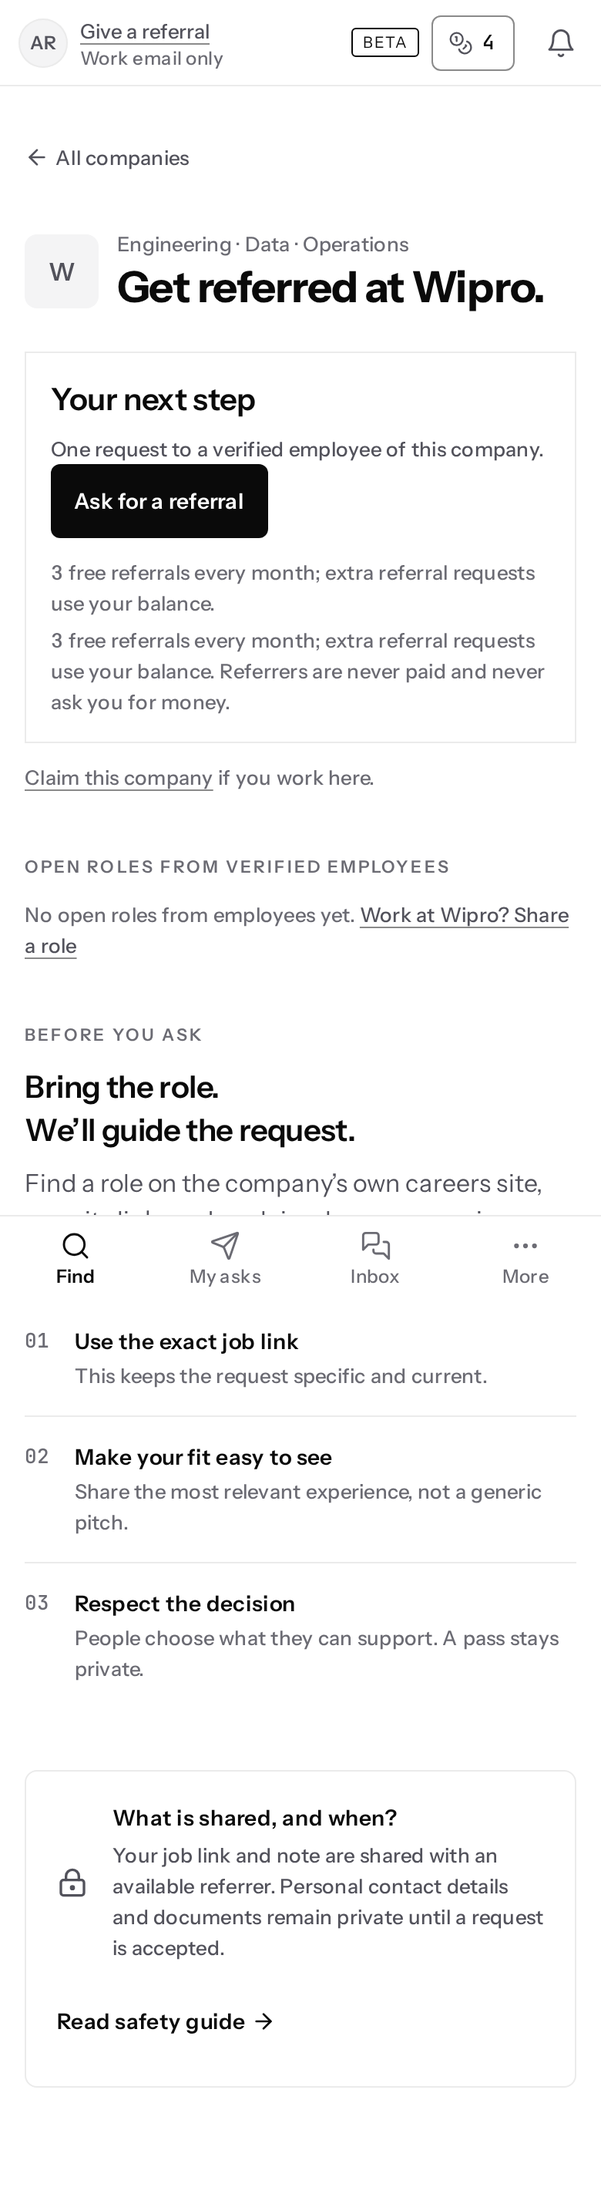
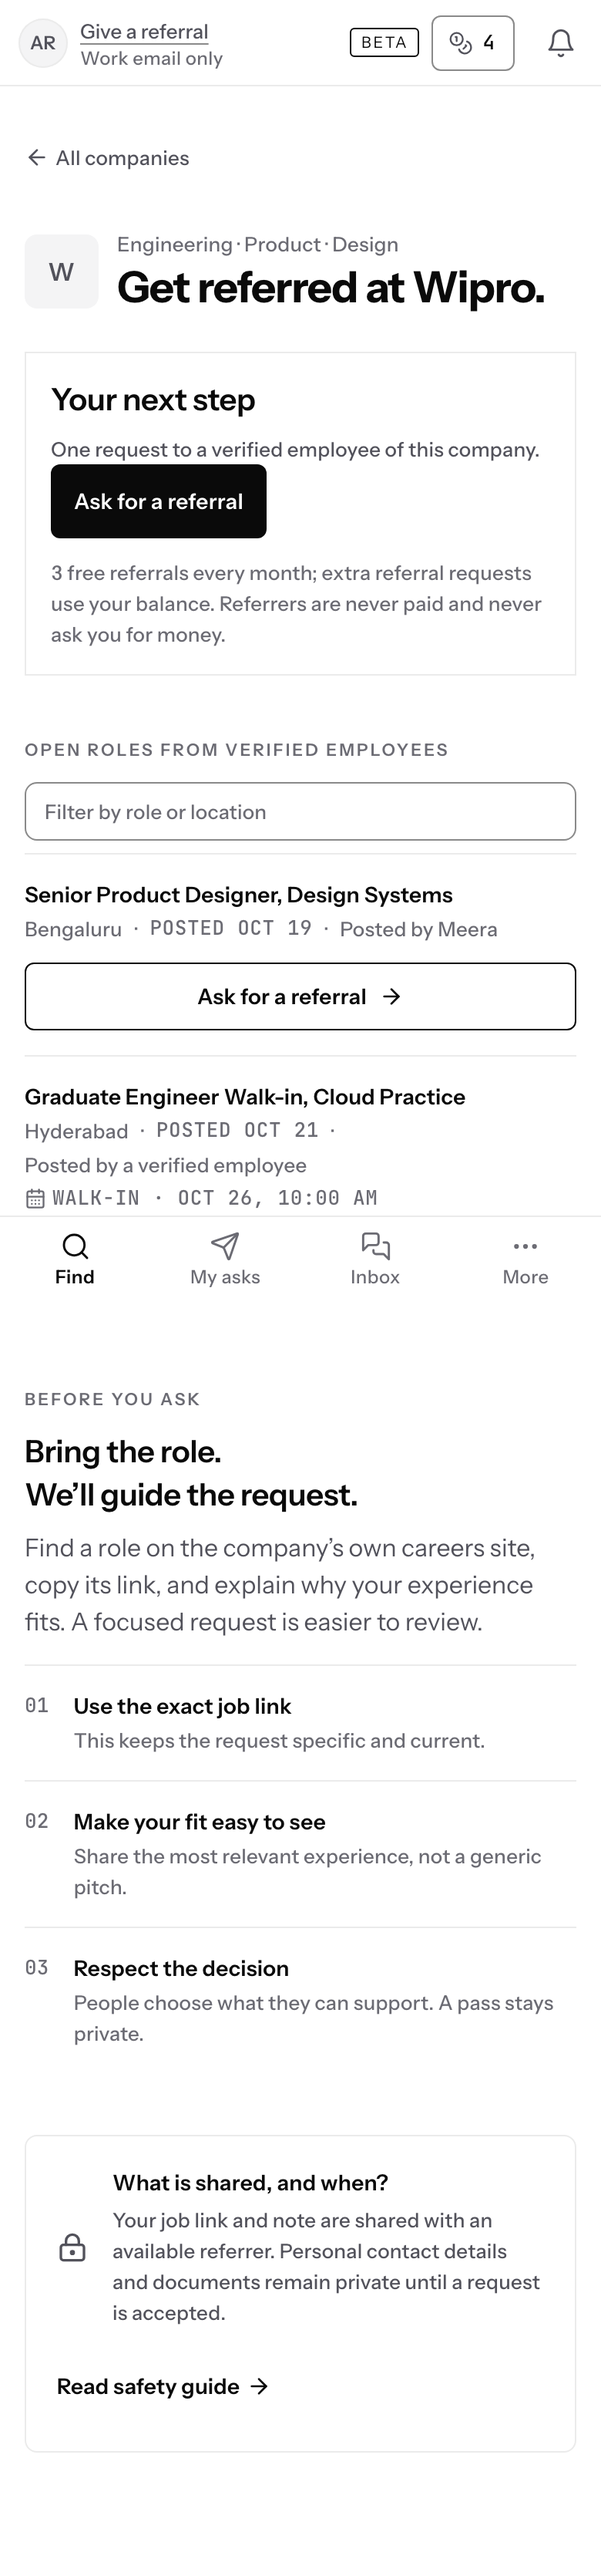
D-048-p3-live-review-find: fix the re-review findings N1-N6 red-first
N1 the door's Claim link now follows VITE_COMPANY_CLAIM, the switch the other
two claim entry points already use, so it is no longer a dead link. N2 the
goal line wraps instead of truncating: at 390 with "Northwind Analytics" it
measured 461/298 before and 298/298 after in a real browser. N3 an unknown slug
renders GoalEmptyState with one All companies action inside the goal shell,
not the kit 404's second <main>, wordmark and blue pill. N4 the how-it-goes
copy no longer says "verified employers" and no longer uses "your asks". N5
every changed state is recaptured at 1280 and 390 from this tree, plus a
long-name fixture. N6 the black commit opens the one company the query names
even while a chip hides its row, and is disabled with an honest reason when it
would otherwise do nothing.

diff --git a/client/src/pages/explore.test.tsx b/client/src/pages/explore.test.tsx
@@ -102,7 +102,7 @@ beforeEach(() => {
   stubMatchMedia();
   go.mockReset();
 });
-afterEach(() => { cleanup(); vi.unstubAllGlobals(); });
+afterEach(() => { cleanup(); vi.unstubAllGlobals(); vi.unstubAllEnvs(); });
 
 const companyPaths = (fetchMock: ReturnType<typeof vi.fn>) => paths(fetchMock).filter(path => path.startsWith("/api/companies"));
 
@@ -254,8 +254,9 @@ describe("Explore company door (goal, W2)", () => {
     routeState.slug = "no-such-company";
     stubDirectory();
     renderWithQuery(<ExploreCompany />);
-    expect(await screen.findByRole("heading", { name: "This door doesn't lead anywhere." })).toBeTruthy();
-    expect(screen.getByRole("link", { name: "Explore companies" }).getAttribute("href")).toBe("/explore");
+    expect(await screen.findByText("This door doesn’t lead anywhere.")).toBeTruthy();
+    expect(screen.getByTestId("goal-empty-state")).toBeTruthy();
+    expect(screen.queryByRole("link", { name: "Explore companies" })).toBeNull(); // no kit action inside the goal shell
     expect(screen.queryByRole("button", { name: /Ask for a referral/ })).toBeNull();
   });
 
@@ -542,6 +543,45 @@ describe("Goal redesign of the find surfaces", () => {
     expect(container).toBeTruthy();
   });
 
+  // N4 (PR #1161 re-review): new public copy said "verified employers" (SkipWait
+  // verifies employees, never employers) and used the noun "asks" outside the
+  // menu label D-180 permits.
+  it("the how-it-goes copy names no employer verification and no stray 'asks' noun", async () => {
+    stubDirectory();
+    const { container } = renderWithQuery(<Explore />);
+    await screen.findByTestId("goal-directory-summary");
+    const how = container.querySelector('section[aria-label="How it goes"]') as HTMLElement;
+    expect(how.textContent).not.toMatch(/verified employers/i);
+    expect(how.textContent).toContain("Search companies where verified employees can review requests.");
+    expect(how.textContent).toContain("You see their answer in My asks.");
+    expect(how.textContent).not.toMatch(/your asks/i);
+  });
+
+  // N6 (PR #1161 re-review): with the query matching a company the active chip
+  // hides, the list is not mounted, so focusing it did nothing and the enabled
+  // commit was a no-op. The query alone decides; the commit opens that company.
+  it("the black commit opens the one company the query names even when a chip hides it", async () => {
+    stubDirectory();
+    const { container } = renderWithQuery(<Explore />);
+    await screen.findByTestId("goal-directory-summary");
+    fireEvent.click(screen.getByRole("button", { name: "Design" })); // Wipro has no Design function
+    fireEvent.change(screen.getByLabelText("Search companies"), { target: { value: "Wipro" } });
+    fireEvent.click(within(screen.getByRole("region", { name: GOAL_NEXT_STEP_LABEL })).getByRole("button", { name: "Find your company" }));
+    expect(go).toHaveBeenCalledWith("/explore?company=wipro", { replace: true });
+    expect(container).toBeTruthy();
+  });
+
+  it("the black commit is disabled with a reason when a chip hides every company the query names", async () => {
+    stubDirectory();
+    renderWithQuery(<Explore />);
+    await screen.findByTestId("goal-directory-summary");
+    fireEvent.click(screen.getByRole("button", { name: "Design" })); // Wipro and TCS have no Design function
+    fireEvent.change(screen.getByLabelText("Search companies"), { target: { value: "technology services" } });
+    const step = screen.getByRole("region", { name: GOAL_NEXT_STEP_LABEL });
+    expect(within(step).getByRole("button", { name: "Find your company" }).getAttribute("aria-disabled")).toBe("true");
+    expect(within(step).getByText("Clear the filters to see matching companies.")).toBeTruthy();
+  });
+
   it("the door meets the goal contract: goal line, one next step, one black commit", async () => {
     stubDirectory();
     const { container } = renderWithQuery(<ExploreCompany />);
@@ -552,15 +592,35 @@ describe("Goal redesign of the find surfaces", () => {
     expect(within(screen.getByRole("region", { name: GOAL_NEXT_STEP_LABEL })).getByText(MONEY_SENTENCE)).toBeTruthy();
   });
 
-  it("the door offers 'Claim this company' if you work here", async () => {
+  // N1 (PR #1161 re-review): the claim page is behind VITE_COMPANY_CLAIM, which
+  // is off (`.env.example: false`); the door must gate the link exactly as
+  // ForCompanies and GoalForCompanies do, or every company door is a dead link.
+  it("the door's claim link follows the company-claim switch, like the other two pages", async () => {
     stubDirectory();
-    const { container } = renderWithQuery(<ExploreCompany />);
+    vi.stubEnv("VITE_COMPANY_CLAIM", "false");
+    const off = renderWithQuery(<ExploreCompany />);
+    await screen.findByRole("heading", { level: 1, name: "Get referred at Wipro." });
+    expect(screen.queryByRole("link", { name: "Claim this company" })).toBeNull();
+    off.unmount();
+    vi.stubEnv("VITE_COMPANY_CLAIM", "true");
+    renderWithQuery(<ExploreCompany />);
     const claim = await screen.findByRole("link", { name: "Claim this company" });
     expect(claim.getAttribute("href")).toBe("/company/claim");
-    expect(container).toBeTruthy();
   });
 
-  it("an unknown slug renders inside the goal frame, with the way back", async () => {
+  // N2 (PR #1161 re-review): the goal line held only a company name when it got
+  // `truncate`; at 390 any name longer than about six characters lost its end.
+  // The browser measurement lives in the row's captures; this pins the fix.
+  it("the door's goal line wraps instead of truncating", async () => {
+    stubDirectory();
+    renderWithQuery(<ExploreCompany />);
+    const heading = await screen.findByRole("heading", { level: 1, name: "Get referred at Wipro." });
+    expect(heading.className).not.toMatch(/(^|\s)truncate(\s|$)/);
+  });
+
+  // N3 (PR #1161 re-review): the kit not-found nested a second <main> inside the
+  // goal shell's, drew the kit wordmark and an electric-blue kit pill.
+  it("an unknown slug renders one goal main, no kit wordmark, and a goal control back", async () => {
     vi.stubGlobal("fetch", vi.fn(async (input: string) => {
       const path = String(input);
       if (path === "/api/companies/nobody") return json(404, { error: "This door doesn't lead anywhere" });
@@ -569,7 +629,24 @@ describe("Goal redesign of the find surfaces", () => {
     }));
     routeState.slug = "nobody";
     const { container } = renderWithQuery(<ExploreCompany />);
-    expect(await screen.findByText("This door doesn't lead anywhere.")).toBeTruthy();
+    expect(await screen.findByText("This door doesn’t lead anywhere.")).toBeTruthy();
+    expect(container.querySelectorAll("main")).toHaveLength(1);
+    expect(container.querySelector(".wordmark")).toBeNull();
+    expect(container.querySelector("[data-testid='goal-empty-state']")).toBeTruthy();
+    fireEvent.click(screen.getByRole("button", { name: "All companies" }));
+    expect(go).toHaveBeenCalledWith("/explore");
+  });
+
+  it("an unknown slug keeps the seeker's bearings inside the goal frame", async () => {
+    vi.stubGlobal("fetch", vi.fn(async (input: string) => {
+      const path = String(input);
+      if (path === "/api/companies/nobody") return json(404, { error: "This door doesn't lead anywhere" });
+      if (path === "/api/companies") return json(200, ALL_OPEN);
+      return json(404, { error: "not found" });
+    }));
+    routeState.slug = "nobody";
+    const { container } = renderWithQuery(<ExploreCompany />);
+    expect(await screen.findByText("This door doesn’t lead anywhere.")).toBeTruthy();
     expect(container.querySelector("[data-skipwait-screen='explore-company-not-found']")).toBeTruthy();
     expect(container.querySelector("[data-testid='goal-shell']")).toBeTruthy();
   });

diff --git a/client/src/pages/Explore.tsx b/client/src/pages/Explore.tsx
@@ -70,7 +70,8 @@ export default function Explore() {
   // "Unlisted" needs both: an answered search with no company and no directory row for the query.
   // Whether the company exists is a question about the query alone: the active
   // function chip only narrows what the directory shows, so it never makes a company unlisted.
-  const queryMatched = useMemo(() => filterCompanies(companies ?? [], { query, fn: null }).length > 0, [companies, query]);
+  const queryMatches = useMemo(() => filterCompanies(companies ?? [], { query, fn: null }), [companies, query]);
+  const queryMatched = queryMatches.length > 0;
   const noMatch = typeahead && Boolean(companies) && companySearch.status === "ready" && companySearch.noMatch && !queryMatched;
   // No empty-directory claim while the search is in flight, failed, or suggested a company the filter misses.
   // When the query does match rows the chip hides, the filter empty state is the truthful line and stays.
@@ -126,14 +127,25 @@ export default function Explore() {
   // (the file's own invariant above): /ask is never the answer while the
   // directory is loading or failed, and the query alone decides — the active
   // function chip only narrows the list, so it never makes a company unlisted.
-  const directoryUnresolved = !companies || directory.isError;
   const unlistedAnswered = noMatch || (!typeahead && Boolean(companies) && !directory.isError && !queryMatched);
+  // An enabled commit must always do something (N6): the one remaining no-op is
+  // an empty filtered list where the query names several (or no) companies.
+  const commitDoesNothing = shown.length === 0 && !unlistedAnswered && queryMatches.length !== 1;
+  const commitBlockedReason = commitDoesNothing
+    ? searchSpeaks
+      ? "Pick a company from the suggestions."
+      : queryMatched
+        ? "Clear the filters to see matching companies."
+        : "Widen the name to see matches."
+    : undefined;
   const findCompany = () => {
     if (!query.trim()) return;
     if (shown.length === 1) { selectCompany(shown[0].slug); return; }
     if (shown.length === 0) {
       if (unlistedAnswered) { navigate("/ask"); return; }
-      listRef.current?.focus();
+      // The query alone decides: one named company opens even while a chip
+      // hides its row, so an enabled commit always does something (N6).
+      if (queryMatches.length === 1) { selectCompany(queryMatches[0].slug); return; }
       return;
     }
     listRef.current?.focus();
@@ -246,7 +258,7 @@ export default function Explore() {
                       ? "Still loading companies."
                       : typeahead && companySearch.status === "loading"
                         ? "Still checking that name."
-                        : undefined
+                        : commitBlockedReason
               }
               onClick={findCompany}
             >
@@ -267,9 +279,9 @@ export default function Explore() {
           <h2 className="text-g-heading text-g-ink">How it goes</h2>
           <ol className="mt-3 divide-y divide-g-hairline border-t border-g-hairline">
             {[
-              ["Find your company", "Search the directory of verified employers."],
+              ["Find your company", "Search companies where verified employees can review requests."],
               ["Paste the job link and say why you fit", "One link and three short reasons. Your name and resume stay private until an employee accepts."],
-              ["A verified employee accepts and refers", "You get their answer in your asks. No referral is guaranteed."],
+              ["A verified employee accepts and refers", "You see their answer in My asks. No referral is guaranteed."],
             ].map(([title, body], index) => (
               <li key={title} className="flex gap-4 py-4">
                 <span aria-hidden="true" className="font-g-mono text-g-meta text-g-ink-3">{`0${index + 1}`}</span>

diff --git a/client/src/pages/ExploreCompany.tsx b/client/src/pages/ExploreCompany.tsx
@@ -6,17 +6,19 @@
 // the full money sentence beside it. Then the honest facts - responsiveness
 // from the shared companySignalCopy (never an invented figure), open roles as
 // rows with mono dates, the three ask-quality points, the privacy preview and
-// the "Claim this company" link. A not-open company keeps the waiting-ask
+// the "Claim this company" link while VITE_COMPANY_CLAIM is on. A not-open
+// company keeps the waiting-ask
 // rule (COVERAGE_WAIT_DAYS) and says the wait honestly in the commit's own
 // line (D-176: availability is the post-save truth, never an open/not-open
 // pill). Every number from /api/companies/:slug,
 // /api/companies/:slug/opportunities and the live send.
 import { ArrowLeft, ArrowRight, CalendarDays, LockKeyhole } from "lucide-react";
 import { Fragment, useEffect, useState, type ReactNode } from "react";
-import { Link, useRoute } from "wouter";
+import { Link, useLocation, useRoute } from "wouter";
 import {
   GoalAppShell,
   GoalButton,
+  GoalEmptyState,
   GoalNextStep,
   GoalNum,
   GoalSkeletonRows,
@@ -31,7 +33,6 @@ import { ASK_COST_SENTENCE, COVERAGE_WAIT_REASON, MONEY_SENTENCE } from "@shared
 // ASK_COST_SENTENCE stays for the SEO description below; the block states the
 // cost once, through MONEY_SENTENCE.
 import { COMPANY_SIGNAL_COPY } from "@shared/companySignalCopy";
-import { NotFoundContent } from "./NotFound";
 import { AskDrawer } from "./explore/AskDrawer";
 import { useAskComposer } from "./explore/useAskComposer";
 
@@ -47,6 +48,7 @@ function BackLink() {
 
 export default function ExploreCompany() {
   const [, params] = useRoute("/explore/:slug");
+  const [, go] = useLocation();
   const slug = params?.slug ?? "";
   const company = useCompany(slug);
   // An unknown or hidden slug is the app's 404 (keep).
@@ -56,8 +58,12 @@ export default function ExploreCompany() {
     return (
       <GoalAppShell active="find" pageTitle="Find a referral">
         <div data-skipwait-screen="explore-company-not-found" className="max-w-[696px] px-8 pt-10 pb-8 max-gdesk:px-4 max-gdesk:pt-6">
-          <BackLink />
-          <NotFoundContent />
+          <GoalEmptyState
+            className="px-0"
+            title="This door doesn’t lead anywhere."
+            body="The company may have moved, or the link was mistyped."
+            action={{ label: "All companies", onClick: () => go("/explore") }}
+          />
         </div>
       </GoalAppShell>
     );
@@ -186,7 +192,7 @@ function CompanyPage({ company }: { company: PublicCompany }) {
             </span>
             <div className="min-w-0">
               <p className="truncate text-g-meta text-g-ink-3">{company.functions.join(" · ")}</p>
-              <h1 className="truncate text-g-display text-g-ink">{`Get referred at ${company.name}.`}</h1>
+              <h1 className="text-balance text-g-display text-g-ink">{`Get referred at ${company.name}.`}</h1>
             </div>
           </div>
         </header>
@@ -198,7 +204,7 @@ function CompanyPage({ company }: { company: PublicCompany }) {
           </GoalNextStep>
         </div>
         {!open ? <p className="mt-3 text-g-meta text-g-ink-3"><Link href="/alerts" className="underline decoration-g-control-edge underline-offset-[3px] hover:decoration-g-ink">Alert me</Link> when this company opens up.</p> : null}
-        <p className="mt-3 text-g-meta text-g-ink-3"><Link href="/company/claim" className="underline decoration-g-control-edge underline-offset-[3px] hover:decoration-g-ink">Claim this company</Link> if you work here.</p>
+        {import.meta.env.VITE_COMPANY_CLAIM === "true" ? <p className="mt-3 text-g-meta text-g-ink-3"><Link href="/company/claim" className="underline decoration-g-control-edge underline-offset-[3px] hover:decoration-g-ink">Claim this company</Link> if you work here.</p> : null}
 
         <Responsiveness slug={company.slug} />
         <CompanyOpenings
